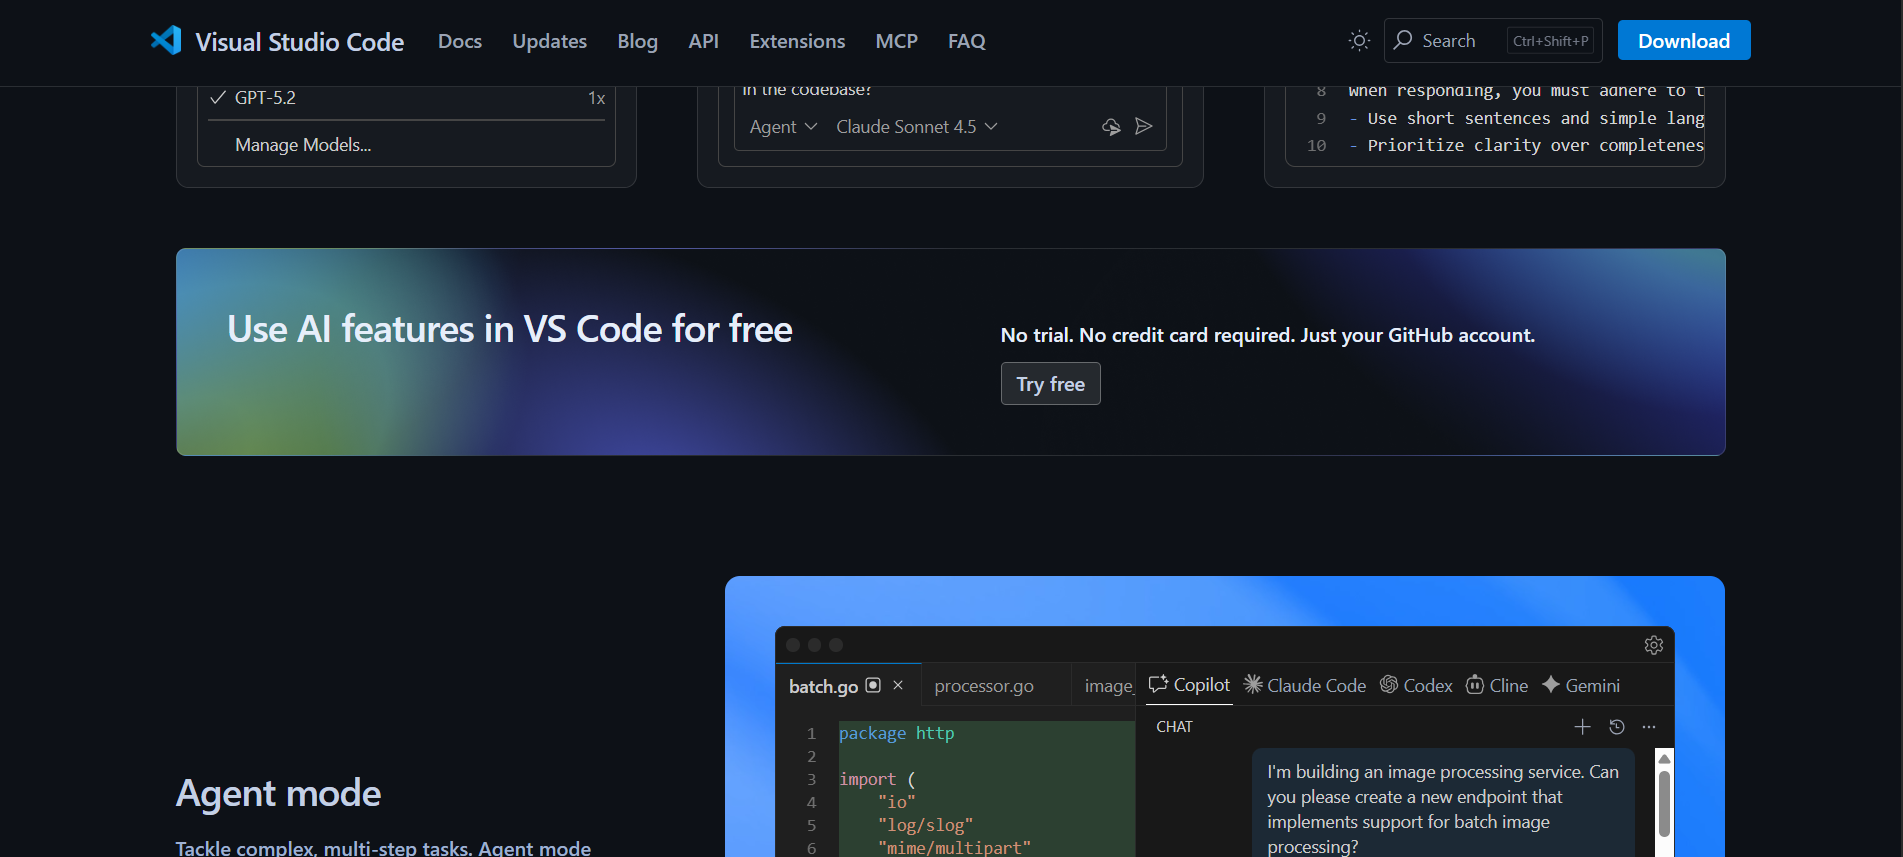
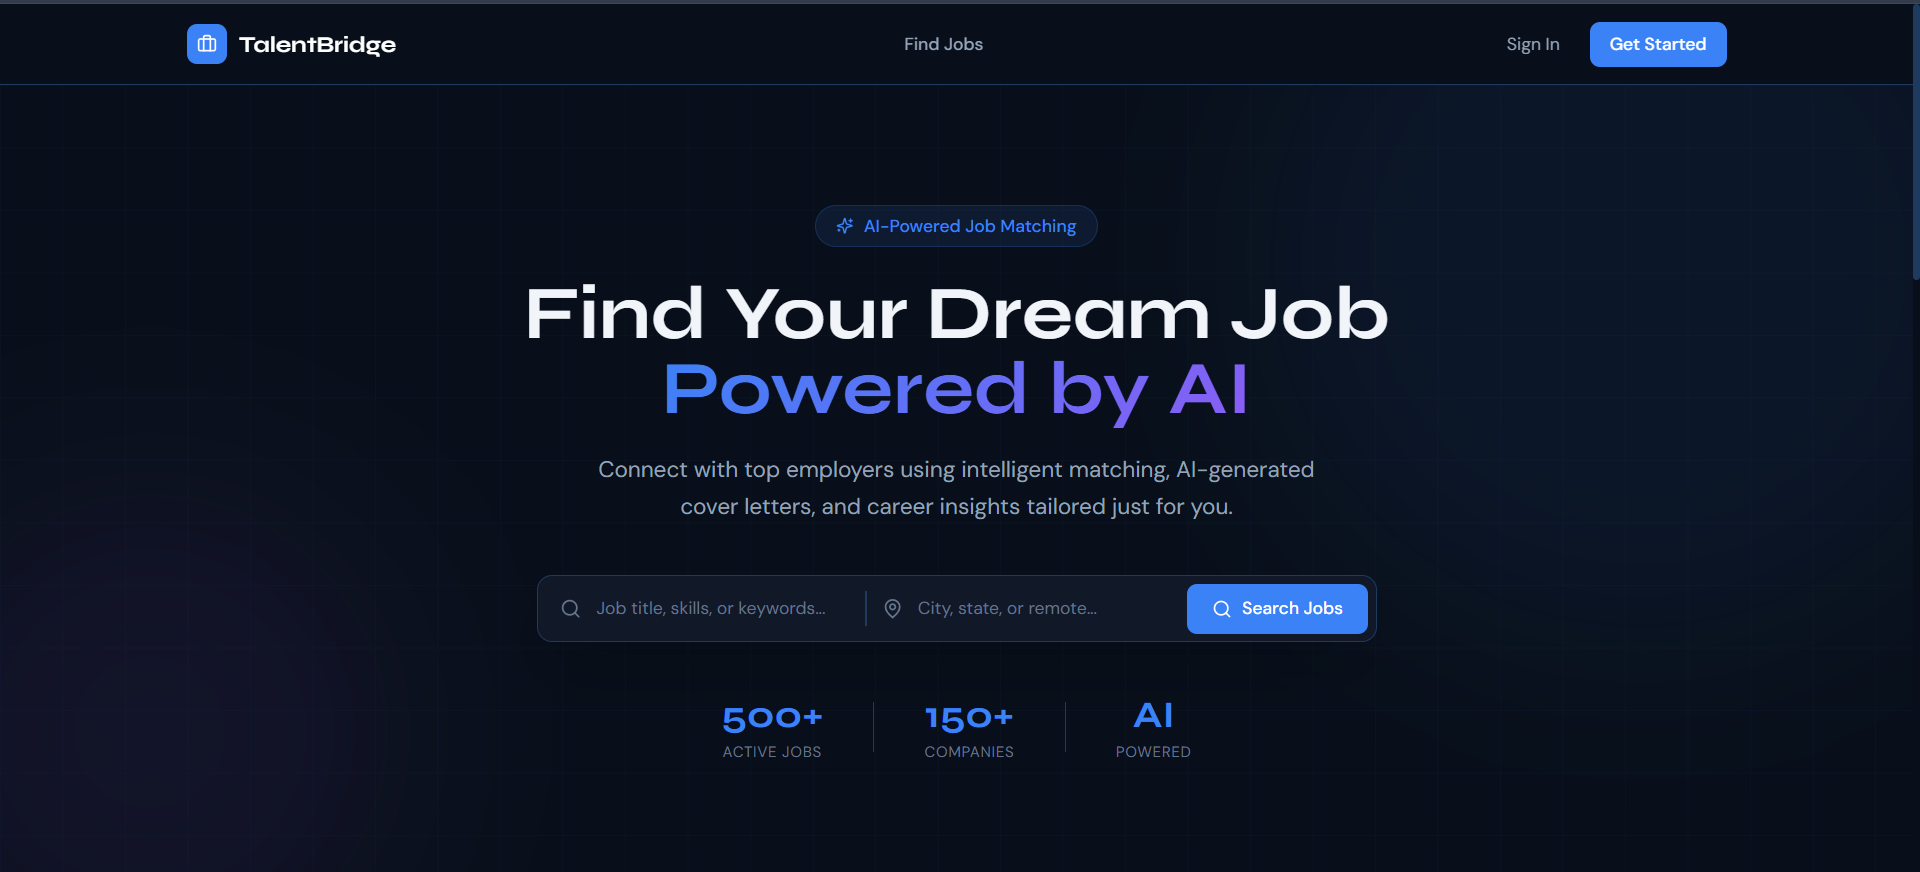
add talentbridge project

diff --git a/src/sections/Projects.jsx b/src/sections/Projects.jsx
@@ -1,7 +1,7 @@
 import { ArrowUpRight, Github as GithubIconLucide } from "lucide-react";
 import { AnimatedBorderButton } from "@/components/AnimatedBorderButton";
 
-import vsCloneImg from '../assets/projects/vsclone.png';
+import talentbridgeImg from '../assets/projects/vsclone.png';
 import portfolioImg from '../assets/projects/Portfolio.png';
 import currentproImg from '../assets/projects/currentpro.png';
 
@@ -9,7 +9,6 @@ import GithubSVG from "../assets/icons/github.svg";
 import LinkedinSVG from "../assets/icons/linkedin.svg";
 import GfgIconSVG from "../assets/icons/geeksforgeeks.svg";
 import LeetcodeIconSVG from "../assets/icons/leetcode.svg";
-
 
 const projects = [
   {
@@ -29,14 +28,15 @@ const projects = [
     github: "https://github.com/shivi23gu/Shivee-Portfolio",
   },
   {
-    title: "VS Code Clone",
-    description: "A pixel-perfect Visual Studio Code clone built with HTML and CSS, replicating the editor layout, sidebar, tabs, and responsive interface.",
-    image: vsCloneImg,
-    tags: ["HTML", "CSS", "JavaScript"],
-    link: "https://github.com/shivi23gu/Vs_clone",
-    github: "https://github.com/shivi23gu/Vs_clone",
+    title: "TalentBridge — AI Job Portal",
+    description: "An AI-powered MERN job portal with smart job matching, Claude-powered cover letter generation, resume analyzer, interview prep, and employer application scoring.",
+    image: talentbridgeImg,
+    tags: ["React.js", "Vite", "Node.js", "Express.js", "MongoDB", "Tailwind CSS", "Claude AI", "JWT", "Vercel"],
+    link: "https://job-portal-1t8k.vercel.app/",
+    github: "https://github.com/shivi23gu/Job-Portal",
   },
 ];
+
 export const Projects = () => {
   return (
     <section id="projects" className="py-32 relative overflow-hidden">
@@ -44,7 +44,6 @@ export const Projects = () => {
       <div className="absolute bottom-1/4 left-0 w-64 h-64 bg-highlight/5 rounded-full blur-3xl" />
 
       <div className="container mx-auto px-6 relative z-10">
-    
         <div className="text-center mx-auto max-w-3xl mb-16">
           <span className="text-secondary-foreground text-sm font-medium tracking-wider uppercase animate-fade-in">
             Featured Work
@@ -56,7 +55,7 @@ export const Projects = () => {
               make an impact.
             </span>
           </h2>
-           <p className="text-muted-foreground animate-fade-in animation-delay-200">
+          <p className="text-muted-foreground animate-fade-in animation-delay-200">
             Full-stack MERN applications and frontend projects — built, deployed, and production-ready.
           </p>
         </div>
@@ -68,7 +67,6 @@ export const Projects = () => {
               className="group glass rounded-2xl overflow-hidden animate-fade-in md:row-span-1"
               style={{ animationDelay: `${(idx + 1) * 100}ms` }}
             >
-              
               <div className="relative overflow-hidden aspect-video">
                 <img
                   src={project.image}
@@ -76,19 +74,22 @@ export const Projects = () => {
                   className="w-full h-full object-cover transition-transform duration-700 group-hover:scale-110"
                 />
                 <div className="absolute inset-0 bg-gradient-to-t from-card via-card/50 to-transparent opacity-60" />
-                
+
                 <div className="absolute inset-0 flex items-center justify-center gap-4 opacity-0 group-hover:opacity-100 transition-opacity duration-300">
                   <a
                     href={project.link}
+                    target="_blank"
+                    rel="noopener noreferrer"
                     className="p-3 rounded-full glass hover:bg-primary hover:text-primary-foreground transition-all"
                   >
                     <ArrowUpRight className="w-5 h-5" />
                   </a>
                   <a
                     href={project.github}
+                    target="_blank"
+                    rel="noopener noreferrer"
                     className="p-3 rounded-full glass hover:bg-primary hover:text-primary-foreground transition-all"
                   >
-                
                     <GithubIconLucide className="w-5 h-5" />
                   </a>
                 </div>
@@ -99,9 +100,7 @@ export const Projects = () => {
                   <h3 className="text-xl font-semibold group-hover:text-primary transition-colors">
                     {project.title}
                   </h3>
-                  <ArrowUpRight
-                    className="w-5 h-5 text-muted-foreground group-hover:text-primary group-hover:translate-x-1 group-hover:-translate-y-1 transition-all"
-                  />
+                  <ArrowUpRight className="w-5 h-5 text-muted-foreground group-hover:text-primary group-hover:translate-x-1 group-hover:-translate-y-1 transition-all" />
                 </div>
                 <p className="text-muted-foreground text-sm">
                   {project.description}